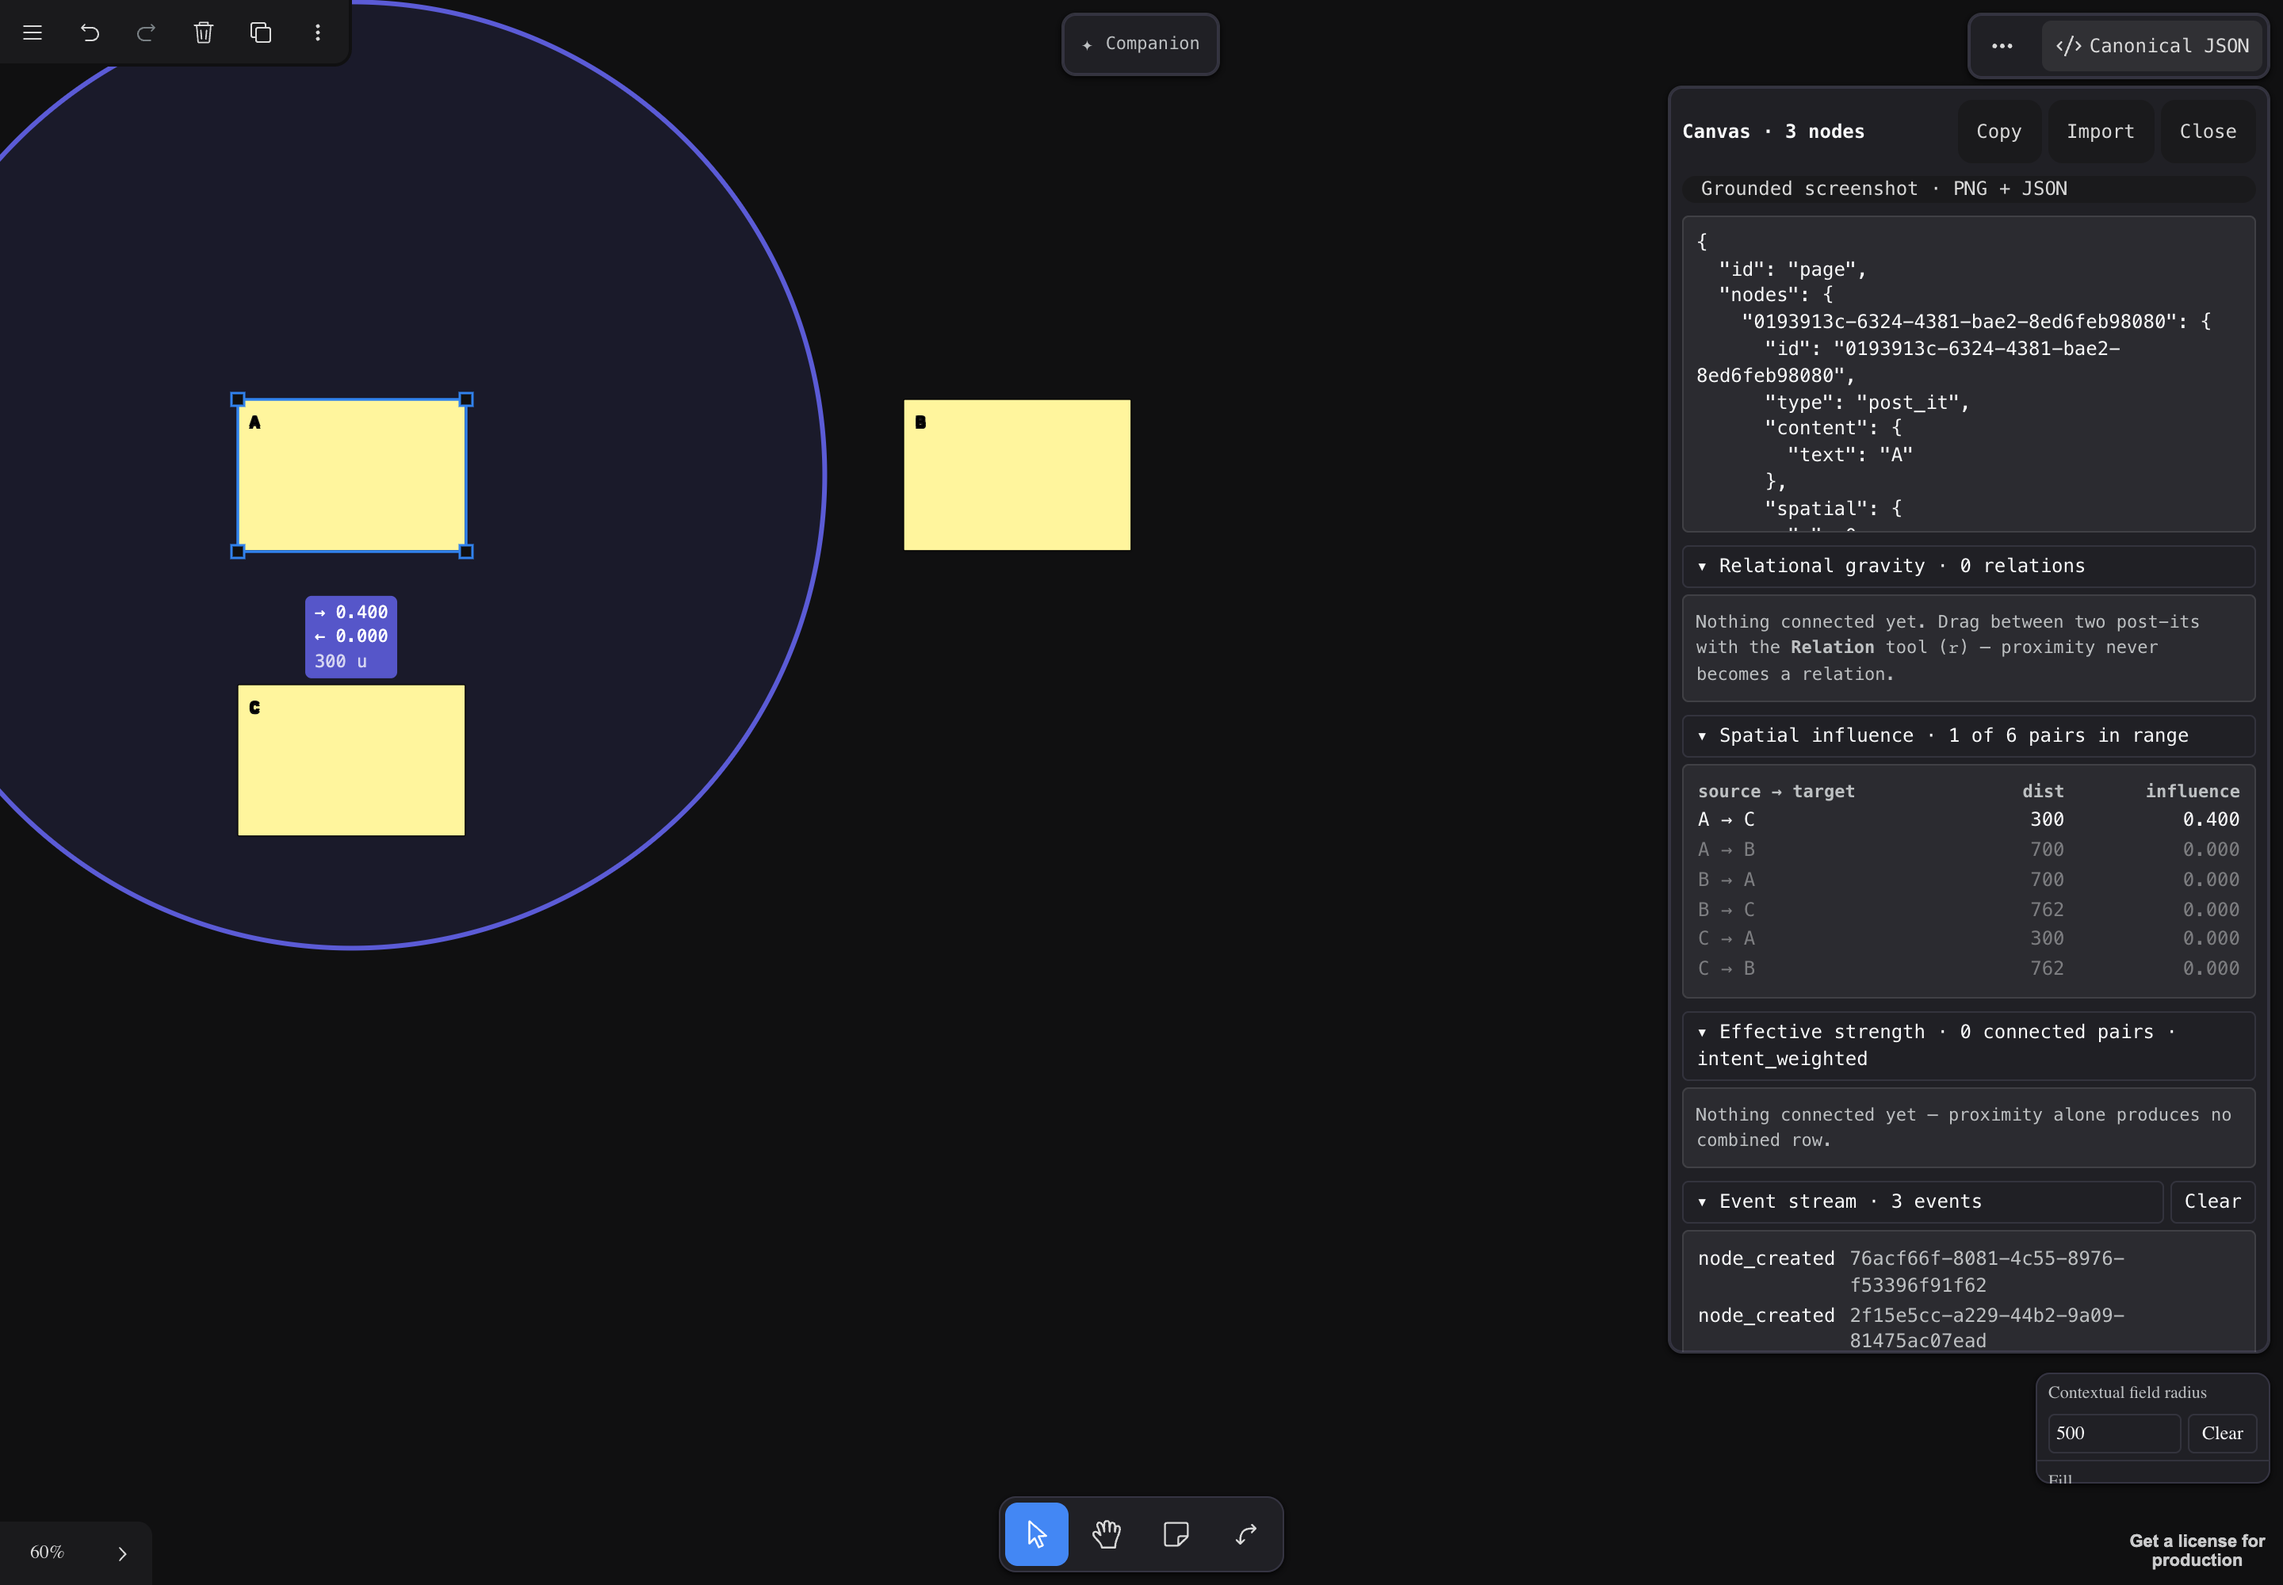
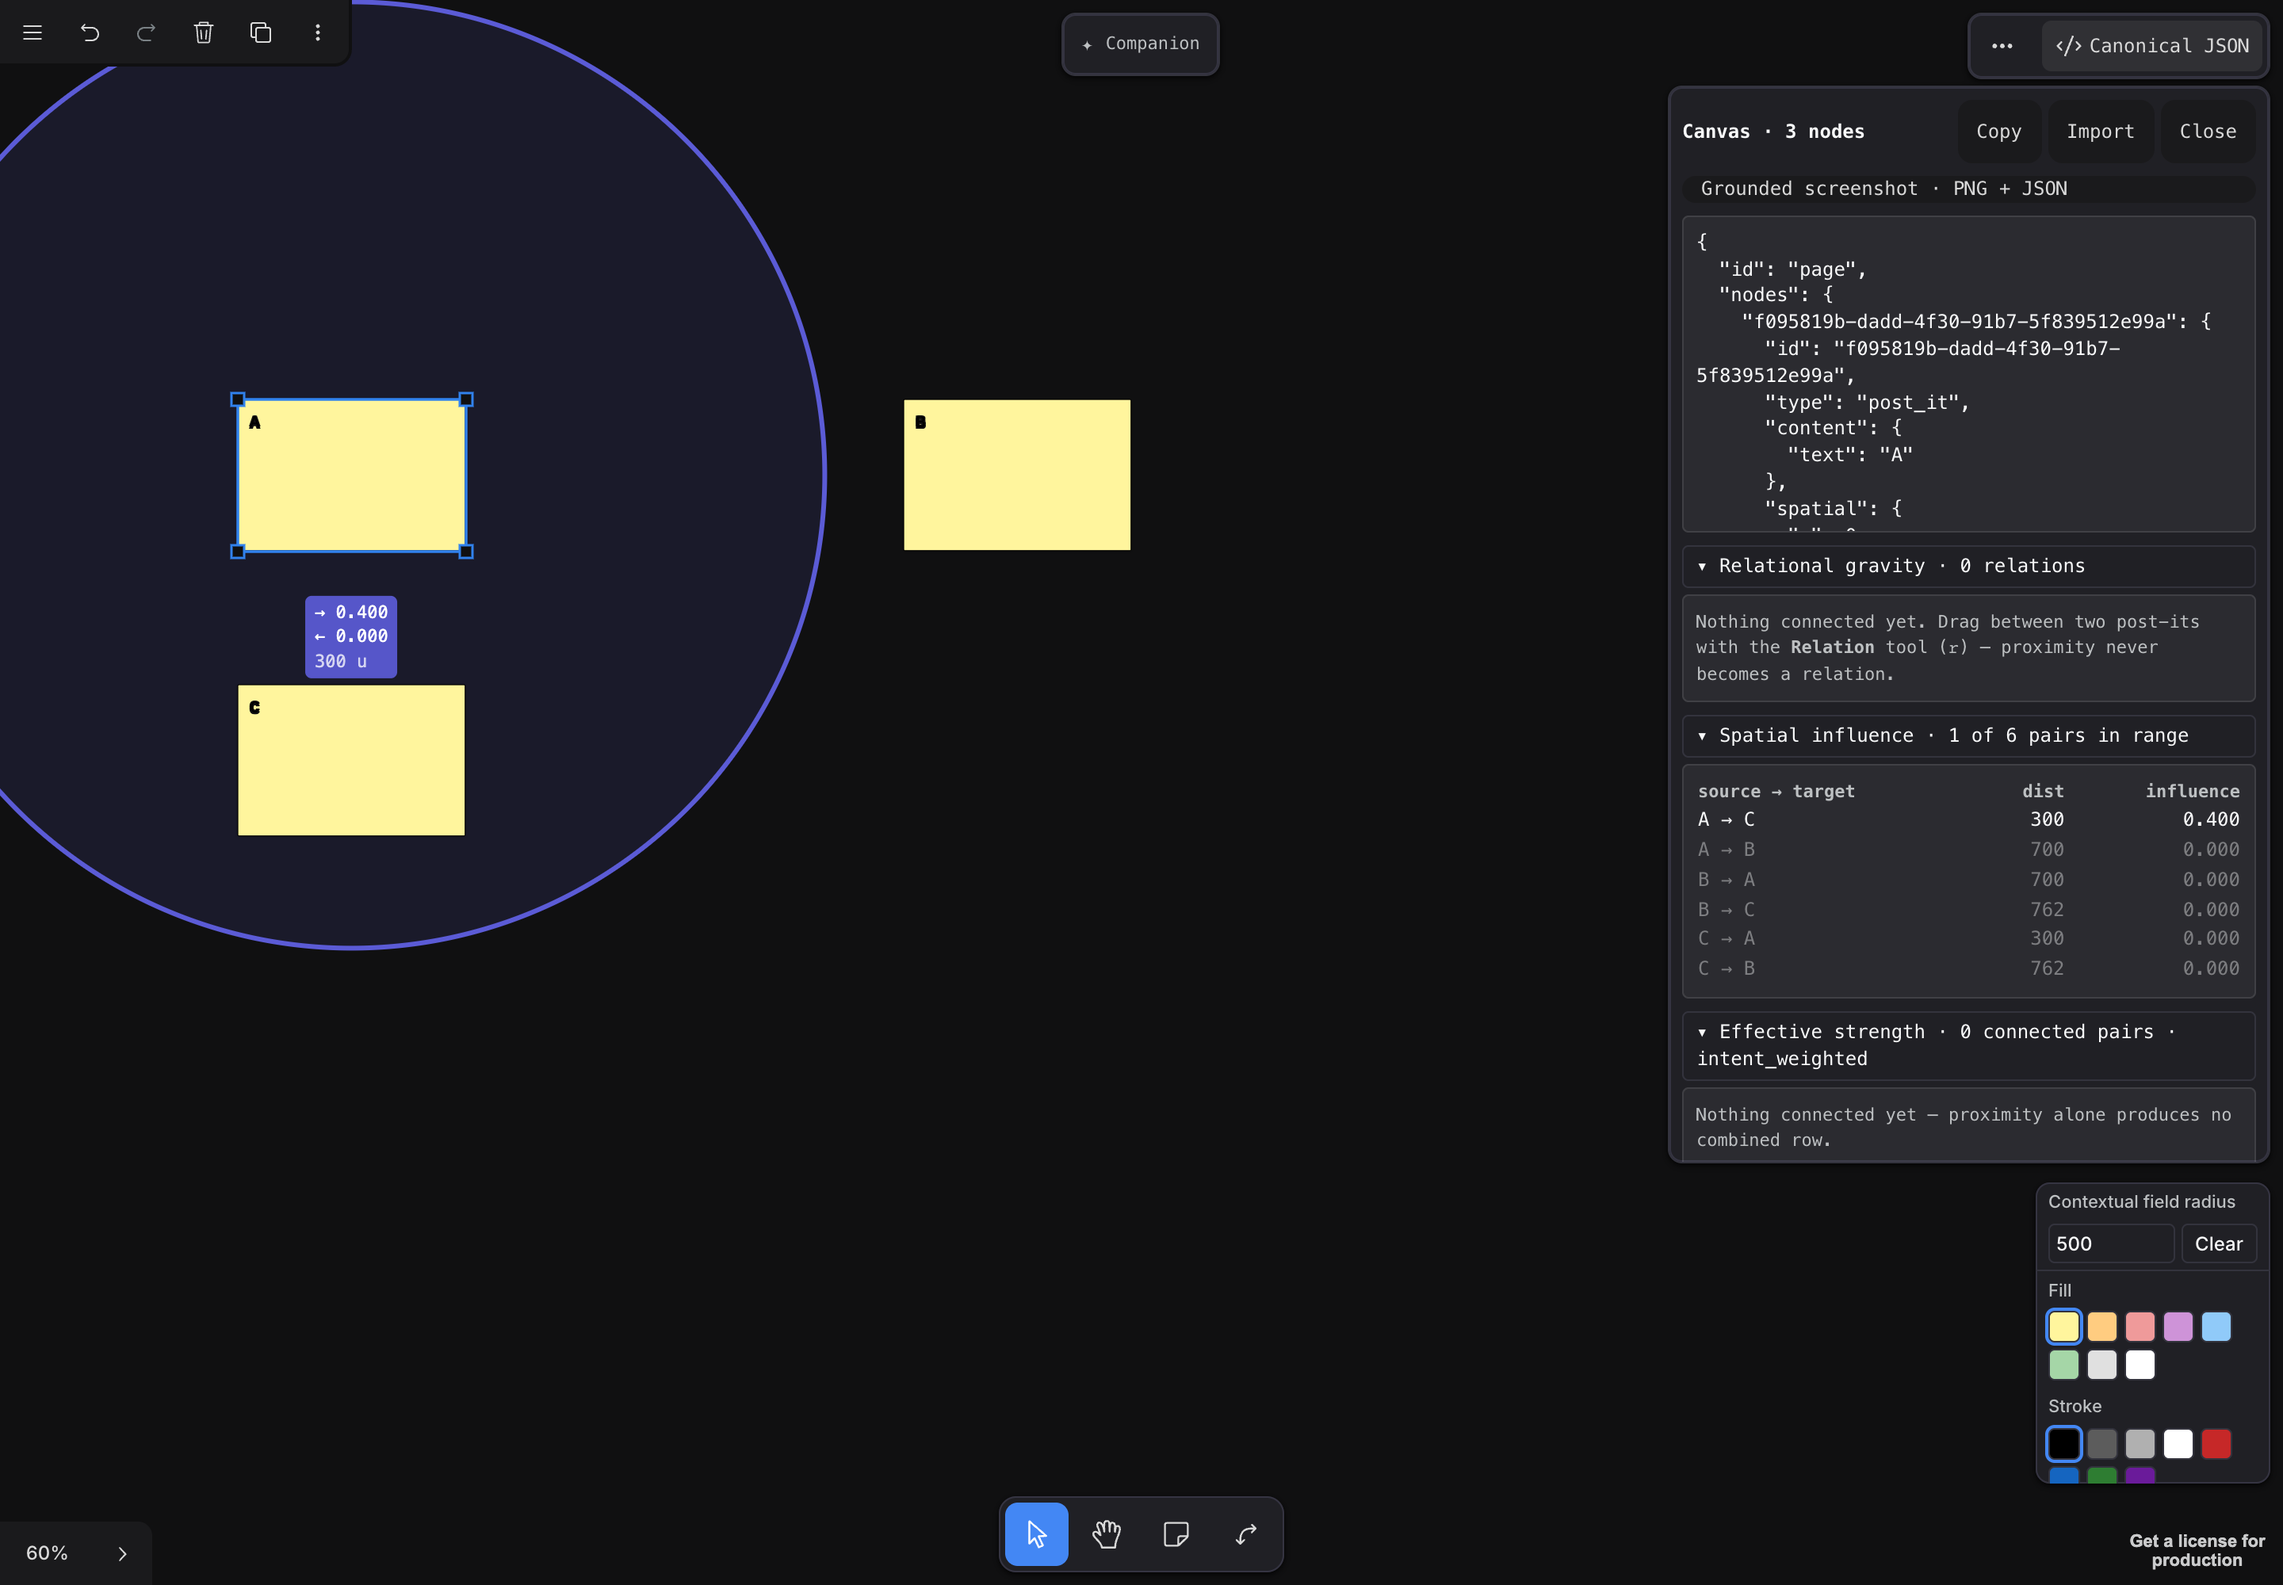
Open new post-its with a field, and put the UI font back
Two things the last commit got wrong, both found by using the app rather than
reading it.

**A new post-it had no contextual field.** `PostItTool` called
`createPostItNode` without a radius, and the model reads a missing radius as *no
field* — deliberately, since a node that reaches nowhere is a different claim
from one with a small reach. Correct for the model, wrong for the tool: every
note arrived drawing no circle and influencing nothing, so the one idea this
prototype exists to show was invisible until you selected the note and found
**Add**. The tool now opens with `SUGGESTED_RADIUS`, which moves to
`adapter/contextualField.ts` beside the write it feeds — the panel was no longer
its only caller, and a tool importing from `ui/` would have inverted the
layering. The domain still defaults nothing, **Clear** still returns a note to
having no field, and the README no longer implies the tool is as strict as the
model.

`postItAt` is exported so what the tool decides is testable. That gap is why
this shipped: `editor.test.ts` carried its own stand-in for the tool, with an
*optional* radius, so no test ever saw what real notes were created with. The
suite now drives the tool's own decision — field, centring, and the field
surviving a round trip through the store.

**The UI font fell back to Times.** The last commit removed
`body { font-family: 'Inter' }` on the grounds that Inter was imported and used
nowhere. Nothing named it because it was working by inheritance: tldraw's
[…]

Changed region(s): [[0.7188, 0.713, 1.0, 0.961], [0.8125, 0.186, 0.9375, 0.217], [0.75, 0.217, 0.8125, 0.248]]

diff --git a/src/canvas/shapes/PostItTool.ts b/src/canvas/shapes/PostItTool.ts
@@ -4,12 +4,42 @@
  * Creation deliberately runs canonical-model-first: a Node is built, then
  * projected into a tldraw shape. The shape is never the source of truth, not
  * even at the moment it comes into existence.
+ *
+ * A new post-it opens with a contextual field. The domain still defaults nothing —
+ * `createPostItNode` leaves the key off unless given a radius — so this is the tool making
+ * an explicit choice and writing it in, not the model inventing one on read. Without it
+ * every note arrived reaching nowhere, and the idea the prototype exists to show was
+ * invisible until you found the panel. **Clear** takes it away per note.
  */
 import { StateNode } from 'tldraw'
 import { POST_IT_SHAPE_TYPE } from '@/canvas/shapes/postItShape'
 import { createNodeId } from '@/canvas/adapter/ids'
+import { SUGGESTED_RADIUS } from '@/canvas/adapter/contextualField'
 import { nodeToShape } from '@/canvas/adapter/adapter'
-import { createPostItNode, POST_IT_DEFAULT_HEIGHT, POST_IT_DEFAULT_WIDTH } from '@/domain'
+import {
+	createPostItNode,
+	POST_IT_DEFAULT_HEIGHT,
+	POST_IT_DEFAULT_WIDTH,
+	type PostItNode,
+} from '@/domain'
+
+/**
+ * The node a click drops: centred on the point, opening with a field.
+ *
+ * Exported so what the tool decides can be tested without synthesizing pointer events —
+ * and so the test drives the real decision rather than a copy of it. The suite around this
+ * had its own hand-rolled stand-in for the tool, which is why nobody noticed that new notes
+ * arrived with no field at all.
+ */
+export function postItAt(point: { x: number; y: number }): PostItNode {
+	return createPostItNode({
+		id: createNodeId(),
+		// Centre the new post-it on the click point.
+		x: point.x - POST_IT_DEFAULT_WIDTH / 2,
+		y: point.y - POST_IT_DEFAULT_HEIGHT / 2,
+		radius: SUGGESTED_RADIUS,
+	})
+}
 
 export class PostItTool extends StateNode {
 	static override id = POST_IT_SHAPE_TYPE
@@ -22,16 +52,7 @@ export class PostItTool extends StateNode {
 		const { editor } = this
 
 		// v5: `inputs` exposes methods, not properties.
-		const { x, y } = editor.inputs.getCurrentPagePoint()
-
-		const node = createPostItNode({
-			id: createNodeId(),
-			// Centre the new post-it on the click point.
-			x: x - POST_IT_DEFAULT_WIDTH / 2,
-			y: y - POST_IT_DEFAULT_HEIGHT / 2,
-		})
-
-		const shape = nodeToShape(node)
+		const shape = nodeToShape(postItAt(editor.inputs.getCurrentPagePoint()))
 
 		// A brand new node has no meaningful place in the stacking order yet;
 		// dropping the index lets tldraw put it on top, and the canonical

diff --git a/src/canvas/adapter/editor.test.ts b/src/canvas/adapter/editor.test.ts
@@ -25,13 +25,19 @@ import {
 import {
 	calculateSpatialInfluence,
 	createPostItNode,
+	nodeCenter,
 	type CanvasDocument,
 	type CanvasNode,
 } from '@/domain'
 import { PostItShapeUtil } from '@/canvas/shapes/PostItShapeUtil'
 import { POST_IT_SHAPE_TYPE } from '@/canvas/shapes/postItShape'
+import { postItAt } from '@/canvas/shapes/PostItTool'
 import { contextualFieldPatch, nodeToShape } from '@/canvas/adapter/adapter'
-import { selectedPostItIds, setContextualFieldRadius } from '@/canvas/adapter/contextualField'
+import {
+	selectedPostItIds,
+	setContextualFieldRadius,
+	SUGGESTED_RADIUS,
+} from '@/canvas/adapter/contextualField'
 import { getCanvasDocument } from '@/canvas/adapter/canvasView'
 import { registerNodeMetadata } from '@/canvas/adapter/metadata'
 import { nodeIdToShapeId } from '@/canvas/adapter/ids'
@@ -498,5 +504,28 @@ describe('influence over a live canvas', () => {
 
 		expect(calculateSpatialInfluence(readNode('a'), readNode('b'))).toBeCloseTo(0.8)
 		expect(calculateSpatialInfluence(readNode('b'), readNode('a'))).toBeCloseTo(0.5)
+	})
+})
+
+describe('the node the post-it tool drops', () => {
+	it('opens with a contextual field, so a new note reaches somewhere', () => {
+		// Without this a note arrived with no field, drew no circle, influenced nothing, and
+		// the one idea this prototype demonstrates was invisible until you found the panel.
+		expect(postItAt({ x: 0, y: 0 }).contextualField).toEqual({ radius: SUGGESTED_RADIUS })
+	})
+
+	it('centres the note on the click', () => {
+		const node = postItAt({ x: 500, y: 400 })
+
+		expect(nodeCenter(node)).toEqual({ x: 500, y: 400 })
+	})
+
+	it('is a real canonical node, field and all, once projected and read back', () => {
+		const node = postItAt({ x: 120, y: 80 })
+		editor.createShape({ ...nodeToShape(node), parentId: editor.getCurrentPageId() })
+
+		expect(getCanvasDocument(editor).nodes[node.id].contextualField).toEqual({
+			radius: SUGGESTED_RADIUS,
+		})
 	})
 })

diff --git a/src/index.css b/src/index.css
@@ -3,11 +3,26 @@
  * `--tl-radius-*` and `--tl-shadow-*` custom properties our panels are built from, in
  * both light and dark. Everything else our UI needs is inline, in `canvas/ui/theme.ts`.
  *
- * No web font: the chrome inherits tldraw's own UI face, and the data readouts are
- * monospace so their digits line up in columns.
+ * **The UI font is ours to supply.** tldraw's own `tldraw_*` faces are for shape text —
+ * what a post-it is written in — and its chrome deliberately inherits whatever the page
+ * sets. Delete the rule below and every menu, button and tooltip falls back to the
+ * browser's default serif. That is not hypothetical: this was once removed as unused,
+ * because nothing names Inter anywhere, which is precisely how an inherited default
+ * works. Our own panels set `font: MONO` explicitly, so a broken chrome font showed up
+ * everywhere *except* the readouts.
  */
+@import url('https://fonts.googleapis.com/css2?family=Inter:wght@400;500;700&display=swap');
 @import url('tldraw/tldraw.css');
 
 body {
+	/* System faces behind it, so the chrome is right before the webfont arrives — and
+	   stays right if it never does. */
+	font-family:
+		'Inter',
+		ui-sans-serif,
+		system-ui,
+		-apple-system,
+		'Segoe UI',
+		sans-serif;
 	overscroll-behavior: none;
 }

diff --git a/src/canvas/adapter/contextualField.ts b/src/canvas/adapter/contextualField.ts
@@ -11,6 +11,22 @@ import { isPostItShape } from '@/canvas/shapes/postItShape'
 import { contextualFieldPatch } from '@/canvas/adapter/adapter'
 
 /**
+ * The radius a post-it starts with, and the one the style panel's **Add** restores.
+ *
+ * Deliberately *not* in `src/domain`. `createPostItNode` still defaults nothing: a node
+ * with no `contextualField` exerts no influence, and that has to stay a different claim
+ * from a node with a small one — so the model never invents a radius on read. This is the
+ * canvas layer choosing an opening value on the user's behalf, written explicitly into the
+ * node like any other edit, and removable per note with **Clear**.
+ *
+ * It lives beside the write it feeds rather than in the panel, because the panel is no
+ * longer the only caller: `PostItTool` opens with it too. A canvas whose new notes reach
+ * nowhere makes the one idea this prototype is about invisible until you go looking for a
+ * button.
+ */
+export const SUGGESTED_RADIUS = 500
+
+/**
  * Sets the contextual-field radius on the given post-its, or clears the field
  * when `radius` is null.
  *

diff --git a/src/canvas/ui/ContextualFieldControl.tsx b/src/canvas/ui/ContextualFieldControl.tsx
@@ -7,15 +7,12 @@
 import { useEffect, useMemo, useRef, useState } from 'react'
 import { useEditor, useValue, type Editor, type TLShapeId } from 'tldraw'
 import { readNodeContextualField } from '@/canvas/adapter/adapter'
-import { selectedPostItIds, setContextualFieldRadius } from '@/canvas/adapter/contextualField'
+import {
+	selectedPostItIds,
+	setContextualFieldRadius,
+	SUGGESTED_RADIUS,
+} from '@/canvas/adapter/contextualField'
 import { caption, numberInput, panelButton } from '@/canvas/ui/theme'
-
-/**
- * Suggested starting radius for a field the user is switching on. It lives here
- * and not in `src/domain` on purpose: the model must never apply a radius
- * implicitly, so this is a UI convenience and nothing more.
- */
-export const SUGGESTED_RADIUS = 500
 
 /** Several selected post-its whose radii disagree. */
 const MIXED = 'mixed'

diff --git a/README.md b/README.md
@@ -147,7 +147,7 @@ Influence is **derived, never stored**. It is a function of two Nodes' geometry 
 
 Two details worth knowing:
 
-- The radius is optional and **never defaulted**. A Node with no field exerts no influence, which is a different claim from a Node with a small one.
+- The radius is optional and **never defaulted** _by the model_. A Node with no field exerts no influence, which is a different claim from a Node with a small one, so `createPostItNode` leaves the key off unless given one and nothing invents a radius on read. The Post-it _tool_ does open a new note with `SUGGESTED_RADIUS` (500) — a canvas whose notes all reach nowhere hides the very thing this prototype is about — but that is the canvas layer making an explicit choice and writing it in, and **Clear** in the style panel returns a note to having no field at all.
 - The centre is rotation-aware. `SpatialProperties.rotation` is applied about the top-left corner, so `x + width / 2` is only the centre of an unrotated box.
 
 #### Seeing it
